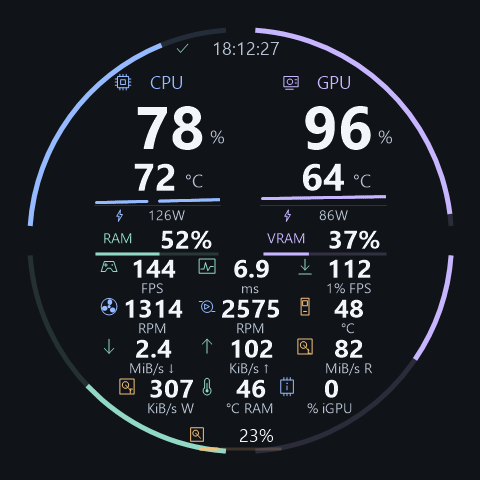
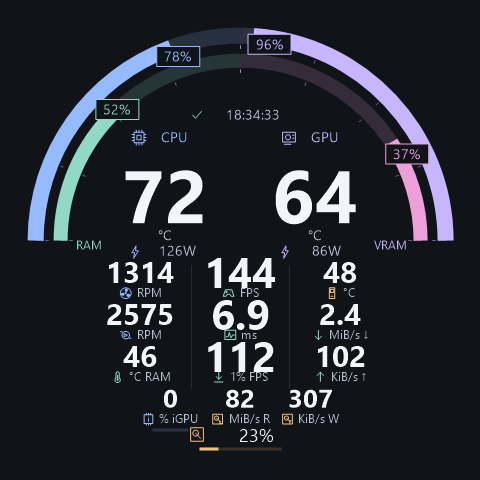
feat(display): Group upper gauges around larger temperatures
- Pair CPU/RAM and GPU/VRAM in thick upper quarters ending at top 100%.
- Add following percentage labels with collision avoidance and 74px temperatures.
- Group cooling, frame performance and IO below with configurable metric slots.
- Verify all integer percentage pairs, raster limits and existing output behavior.

---

feat(display): 用上半区双环与大温度重排圆屏

- 左侧合并CPU/RAM、右侧合并GPU/VRAM粗环，统一顶端为100%。
- 加入随动百分比避让，将温度数字增大至74px。
- 下半区按散热、帧表现与IO分组，保留可配置指标槽。
- 验证全部整数占比对、圆形栅格边界及既有输出行为。

diff --git a/DisplayRenderer.cs b/DisplayRenderer.cs
@@ -11,13 +11,13 @@ internal sealed class DisplayRenderer : IDisposable
     public Bitmap Canvas { get; } = new(480, 480, PixelFormat.Format32bppArgb);
     private readonly Graphics graphics;
     private readonly Font label = new("Segoe UI", 24, FontStyle.Bold, GraphicsUnit.Pixel);
-    private readonly Font load = new("Segoe UI", 60, FontStyle.Bold, GraphicsUnit.Pixel);
-    private readonly Font temperature = new("Segoe UI", 38, FontStyle.Bold, GraphicsUnit.Pixel);
+    private readonly Font focus = new("Segoe UI", 42, FontStyle.Bold, GraphicsUnit.Pixel);
+    private readonly Font temperature = new("Segoe UI", 74, FontStyle.Bold, GraphicsUnit.Pixel);
     private readonly Font small = new("Microsoft YaHei UI", 20, FontStyle.Regular, GraphicsUnit.Pixel);
     private readonly Font foot = new("Segoe UI", 18, FontStyle.Regular, GraphicsUnit.Pixel);
     private readonly Font memory = new("Segoe UI", 26, FontStyle.Bold, GraphicsUnit.Pixel);
-    private readonly Font ratio = new("Segoe UI", 18, FontStyle.Regular, GraphicsUnit.Pixel);
-    private readonly Font powerValue = new("Segoe UI", 20, FontStyle.Bold, GraphicsUnit.Pixel);
+    private readonly Font metric = new("Segoe UI", 30, FontStyle.Bold, GraphicsUnit.Pixel);
+    private readonly Font unit = new("Segoe UI", 12, FontStyle.Regular, GraphicsUnit.Pixel);
     private readonly Font tiny = new("Segoe UI", 14, FontStyle.Regular, GraphicsUnit.Pixel);
     private readonly SolidBrush background = new(ColorTranslator.FromHtml("#101318"));
     private readonly SolidBrush primary = new(ColorTranslator.FromHtml("#F2F5F9"));
@@ -26,7 +26,6 @@ internal sealed class DisplayRenderer : IDisposable
     private readonly SolidBrush gpu = new(ColorTranslator.FromHtml("#C7B6FF"));
     private readonly SolidBrush warning = new(ColorTranslator.FromHtml("#F4C17A"));
     private readonly StringFormat centered = new(StringFormat.GenericTypographic) { Alignment = StringAlignment.Center, LineAlignment = StringAlignment.Center, FormatFlags = StringFormatFlags.NoWrap | StringFormatFlags.NoClip };
-    private readonly StringFormat right = new(StringFormat.GenericTypographic) { Alignment = StringAlignment.Far, LineAlignment = StringAlignment.Center, FormatFlags = StringFormatFlags.NoWrap | StringFormatFlags.NoClip };
     public static Rectangle[] DynamicRegions { get; } = Enumerable.Range(0, 6).Select(i => new Rectangle(24, 24 + i * 72, 432, 72)).ToArray();
 
     public DisplayRenderer()
@@ -46,26 +45,30 @@ internal sealed class DisplayRenderer : IDisposable
         var normal = summary == "正常更新";
         var cpuUsage = metrics.Fresh(MetricId.CpuUsage, interval, now); var gpuUsage = metrics.Fresh(MetricId.GpuUsage, interval, now);
         var ram = metrics.FreshMemoryPercent(interval, now);
-        if (config.Layout.Rings)
+        Gauges(true, cpuUsage, ram, cpu.Color, Ui.Accent, config.Layout.Rings);
+        Gauges(false, gpuUsage, extra.VramPercent, gpu.Color, Color.FromArgb(237, 159, 217), config.Layout.Rings);
+        MetricGlyphs.Draw(graphics, frozenAt.HasValue ? MetricGlyph.Pause : normal ? MetricGlyph.Check : MetricGlyph.Warning, new(190, 107, 13, 15), normal ? Ui.Accent : warning.Color);
+        Text(stamp, tiny, normal ? muted : warning, new(208, 101, 89, 26));
+        Row("CPU", 165, metrics.Fresh(MetricId.CpuTemperature, interval, now), extra.CpuPower, cpu);
+        Row("GPU", 315, metrics.Fresh(MetricId.GpuTemperature, interval, now), extra.GpuPower, gpu);
+        using var ramColor = new SolidBrush(Ui.Accent);
+        Text("RAM", unit, ramColor, new(63, 235, 52, 19));
+        Text("VRAM", unit, gpu, new(365, 235, 52, 19));
+        using (var separator = new Pen(Color.FromArgb(36, 182, 193, 208), 1))
         {
-            Arc(184, cpuUsage, cpu.Color); Arc(274, gpuUsage, gpu.Color);
-            Arc(4, extra.VramPercent, gpu.Color); Arc(94, ram, Ui.Accent);
+            graphics.DrawLine(separator, 191, 265, 191, 388); graphics.DrawLine(separator, 289, 265, 289, 388);
         }
-        MetricGlyphs.Draw(graphics, frozenAt.HasValue ? MetricGlyph.Pause : normal ? MetricGlyph.Check : MetricGlyph.Warning, new(174, 39, 16, 18), normal ? Ui.Accent : warning.Color);
-        Text(stamp, foot, normal ? muted : warning, new(192, 32, 108, 30));
-        Row("CPU", 156, cpuUsage, metrics.Fresh(MetricId.CpuTemperature, interval, now), extra.CpuPower, cpu);
-        Row("GPU", 324, gpuUsage, metrics.Fresh(MetricId.GpuTemperature, interval, now), extra.GpuPower, gpu);
-        DrawTrend(graphics, new(94, 195, 126, 10), metrics.History, p => p.CpuUsage, cpu.Color, now, interval);
-        DrawTrend(graphics, new(260, 195, 126, 10), metrics.History, p => p.GpuUsage, gpu.Color, now, interval);
-        MemoryRow("RAM", 156, ram, metrics.Fresh(MetricId.MemoryUsed, interval, now), metrics.Fresh(MetricId.MemoryTotal, interval, now), Ui.Accent);
-        MemoryRow("VRAM", 324, extra.VramPercent, extra.VramUsed, extra.VramTotal, gpu.Color);
         for (var i = 0; i < 12; i++)
         {
             var item = PanelMetrics.Get(config.Layout.Slots[i], metrics, config, now, extra);
-            var x = i >= 9 ? 160 + i % 3 * 80 : 142 + i % 3 * 98; var y = 268 + i / 3 * 40;
-            MetricGlyphs.Draw(graphics, item.Glyph, new(x - 43, y - 12, 19, 20), item.Color);
-            Text(item.Digits, memory, primary, new(x - 24, y - 20, 70, 36));
-            Text(item.Suffix, tiny, muted, new(x - 29, y + 9, 78, 21));
+            var x = i >= 9 ? 170 + i % 3 * 70 : 140 + i % 3 * 100; var y = 274 + i / 3 * 42;
+            var center = i % 3 == 1 && i < 9;
+            Text(item.Digits, center && item.Digits.Length <= 3 ? focus : i >= 9 ? memory : metric, primary, new(x - 42, y - 28, 84, 48));
+            var suffixWidth = graphics.MeasureString(item.Suffix, unit, int.MaxValue, centered).Width;
+            var start = x - (suffixWidth + 18) / 2;
+            MetricGlyphs.Draw(graphics, item.Glyph, new(start, y + 12, 13, 13), item.Color);
+            graphics.DrawString(item.Suffix, unit, muted, new PointF(start + 18 + suffixWidth / 2, y + 18), centered);
+            if (item.Unit == "% iGPU" || item.Unit == "%") MetricGlyphs.Bar(graphics, new(x - 18, y + 28, 36, 3), item.Value, item.Color);
         }
         var busy = PanelMetrics.Get("disk-busy", metrics, config, now, extra);
         MetricGlyphs.Draw(graphics, MetricGlyph.Disk, new(188, 425, 17, 18), busy.Color);
@@ -73,33 +76,36 @@ internal sealed class DisplayRenderer : IDisposable
         MetricGlyphs.Bar(graphics, new(199, 447, 82, 3), busy.Value, busy.Color);
     }
     public void DrawDynamic(Metrics metrics) => Draw(metrics);
-    private void Arc(float start, double? value, Color color)
+    private void Gauges(bool left, double? outer, double? inner, Color outerColor, Color innerColor, bool bands)
     {
-        using var track = new Pen(Color.FromArgb(38, color), 5); using var fill = new Pen(color, 5);
-        graphics.DrawArc(track, 29, 29, 422, 422, start, 82);
-        if (value > 0) graphics.DrawArc(fill, 29, 29, 422, 422, start, (float)Math.Clamp(value.Value / 100, 0, 1) * 82);
+        if (!bands)
+        {
+            using var brush = new SolidBrush(outerColor);
+            Text((left ? "CPU " : "GPU ") + Format(outer) + "%  " + (left ? "RAM " : "VRAM ") + Format(inner) + "%", unit, brush, new(left ? 100 : 240, 77, 140, 24));
+            return;
+        }
+        UpperGauge.Draw(graphics, left, false, outer, outerColor); UpperGauge.Draw(graphics, left, true, inner, innerColor);
+        var first = UpperGauge.Label(left, false, outer); var second = UpperGauge.Label(left, true, inner, first.Bounds);
+        GaugeNumber(first, outer, outerColor); GaugeNumber(second, inner, innerColor);
     }
-    private void Row(string name, int x, double? usage, double? heat, double? power, SolidBrush color)
+    private void GaugeNumber(GaugeLabel placement, double? value, Color color)
     {
-        MetricGlyphs.Draw(graphics, name == "CPU" ? MetricGlyph.Cpu : MetricGlyph.Gpu, new(x - 43, 72, 19, 19), color.Color);
-        Text(name, foot, color, new(x - 20, 67, 60, 28));
-        Number(usage, load, new(x - 64, 88, 112, 72));
-        Text("%", foot, muted, new(x + 49, 122, 24, 27));
-        Number(heat, temperature, new(x - 60, 152, 81, 46));
-        Text("°C", foot, muted, new(x + 22, 166, 32, 27));
-        MetricGlyphs.Draw(graphics, MetricGlyph.Bolt, new(x - 42, 208, 10, 14), color.Color);
-        Text(Format(power) + "W", tiny, muted, new(x - 29, 201, 77, 27));
+        var b = placement.Bounds;
+        using var leader = new Pen(color, 1); using var brush = new SolidBrush(color);
+        graphics.DrawLine(leader, placement.Anchor, new(b.X + b.Width / 2, b.Y + b.Height / 2));
+        graphics.FillRectangle(background, b); graphics.DrawRectangle(leader, b.X, b.Y, b.Width, b.Height);
+        graphics.DrawString(Format(value) + "%", tiny, brush, b, centered);
     }
-    private void MemoryRow(string name, int x, double? percent, double? used, double? total, Color color)
+    private void Row(string name, int x, double? heat, double? power, SolidBrush color)
     {
-        using var brush = new SolidBrush(color);
-        Text(name, tiny, brush, new(x - 63, 225, 50, 25));
-        Text(Format(percent) + "%", memory, primary, new(x - 10, 220, 80, 34));
-        MetricGlyphs.Bar(graphics, new(x - 61, 252, 123, 3), percent, color);
-        // Exact used/total values remain available on the desktop hardware page.
+        MetricGlyphs.Draw(graphics, name == "CPU" ? MetricGlyph.Cpu : MetricGlyph.Gpu, new(x - 35, 128, 17, 18), color.Color);
+        Text(name, tiny, color, new(x - 12, 123, 43, 27));
+        Text(Format(heat), temperature, primary, new(x - 68, 147, 136, 91));
+        Text("°C", tiny, muted, new(x - 14, 224, 28, 21));
+        MetricGlyphs.Draw(graphics, MetricGlyph.Bolt, new(x - 36, 244, 11, 15), color.Color);
+        Text(Format(power) + "W", tiny, muted, new(x - 21, 238, 65, 24));
     }
-    private void Number(double? number, Font font, Rectangle rectangle) => graphics.DrawString(Format(number), font, primary, rectangle, right);
-    private void Text(string text, Font font, Brush brush, Rectangle rectangle) => graphics.DrawString(text, font, brush, rectangle, centered);
+    private void Text(string text, Font font, Brush brush, Rectangle rectangle) => graphics.DrawString(text, font, brush, new PointF(rectangle.X + rectangle.Width / 2f, rectangle.Y + rectangle.Height / 2f), centered);
     internal static string Format(double? value, string format = "0") => value?.ToString(format) ?? "—";
     internal static void DrawTrend(Graphics g, RectangleF bounds, HistoryPoint[] history, Func<HistoryPoint, double?> select,
         Color color, long now, int interval, double maximum = 100)
@@ -153,7 +159,7 @@ internal sealed class DisplayRenderer : IDisposable
     }
     public void Dispose()
     {
-        graphics.Dispose(); Canvas.Dispose(); label.Dispose(); load.Dispose(); temperature.Dispose(); small.Dispose(); foot.Dispose(); memory.Dispose(); ratio.Dispose(); powerValue.Dispose(); tiny.Dispose();
-        background.Dispose(); primary.Dispose(); muted.Dispose(); cpu.Dispose(); gpu.Dispose(); warning.Dispose(); centered.Dispose(); right.Dispose();
+        graphics.Dispose(); Canvas.Dispose(); label.Dispose(); focus.Dispose(); temperature.Dispose(); small.Dispose(); foot.Dispose(); memory.Dispose(); metric.Dispose(); unit.Dispose(); tiny.Dispose();
+        background.Dispose(); primary.Dispose(); muted.Dispose(); cpu.Dispose(); gpu.Dispose(); warning.Dispose(); centered.Dispose();
     }
 }

diff --git a/Verification.cs b/Verification.cs
@@ -69,6 +69,7 @@ internal static class Verification
             Check(interrupted.Update(hot, config, tick + 31 * Stopwatch.Frequency) is null, "Sampling gap interrupts sustained conditions");
             VerifyDetails(directory, Check);
             VerifyExtended(Check);
+            VerifyGauges(Check);
             RenderRasters(directory, Check);
             if (renderWindows) RenderWindows(directory, Check);
             VerifyWorker(Check);
@@ -109,6 +110,18 @@ internal static class Verification
             renderer.Draw(RichFixture(Fixture(100, 100), true), configuration: config);
             renderer.Canvas.Save(Path.Combine(directory, "layout-" + preset + ".png")); CheckSafety(renderer.Canvas, preset + " extreme preset", check);
         }
+        foreach (var percent in new[] { 0, 1, 25, 50, 75, 99, 100 })
+        {
+            var raster = RichFixture(Fixture(percent, 100, 47.7 * (100 - percent) / 100));
+            var readings = raster.Readings.ToDictionary(p => p.Key, p => p.Value);
+            readings[MetricId.GpuUsage] = readings[MetricId.GpuUsage] with { Value = percent };
+            readings[MetricId.GpuTemperature] = readings[MetricId.GpuTemperature] with { Value = 100 };
+            raster = raster with { Readings = readings, Details = raster.Details! with { Devices = raster.Details!.Devices.Select(d => d.Id != "nvidia" ? d : d with
+                { Metrics = d.Metrics.Select(m => m.Id != "nvidia/vram-used" ? m : m with { Reading = m.Reading with { Value = 16d * (100 - percent) / 100 } }).ToArray() }).ToArray() } };
+            renderer.Draw(raster); renderer.Canvas.Save(Path.Combine(directory, "gauges-" + percent + ".png")); CheckSafety(renderer.Canvas, "gauge endpoints " + percent, check);
+        }
+        renderer.Draw(RichFixture(), configuration: new Settings { Layout = new() { Rings = false } }.Capture());
+        CheckSafety(renderer.Canvas, "bands disabled", check);
     }
     private static void VerifyExtended(Action<bool, string> check)
     {
@@ -140,6 +153,25 @@ internal static class Verification
         check(SystemActivityReader.IsVirtual("Mihomo Meta Tunnel") && !SystemActivityReader.IsVirtual("Intel Ethernet Controller"), "Automatic network selection prefers physical adapters over recognized VPN interfaces");
         using var editor = new LayoutForm(new Settings(), rich.Details, rich, _ => { });
         check(!editor.Visible && editor.Controls.Count > 0, "Layout editor and real-data preview construct without showing a window");
+    }
+    private static void VerifyGauges(Action<bool, string> check)
+    {
+        check(UpperGauge.Point(205, UpperGauge.Angle(true, 100)).Y < 36 && UpperGauge.Point(205, UpperGauge.Angle(false, 100)).Y < 36,
+            "Both utilization quarters reach one hundred percent at the screen top");
+        check(UpperGauge.Point(205, UpperGauge.Angle(true, 0)).X == 35 && UpperGauge.Point(205, UpperGauge.Angle(false, 0)).X == 445,
+            "Left and right utilization quarters progress from opposite side baselines");
+        var collision = false; var outside = false; var coversTemperature = false;
+        foreach (var left in new[] { true, false }) for (var outer = 0; outer <= 100; outer++) for (var inner = 0; inner <= 100; inner++)
+        {
+            var a = UpperGauge.Label(left, false, outer); var b = UpperGauge.Label(left, true, inner, a.Bounds);
+            collision |= a.Bounds.IntersectsWith(b.Bounds);
+            var main = left ? new RectangleF(99, 126, 133, 118) : new RectangleF(248, 126, 133, 118);
+            coversTemperature |= a.Bounds.IntersectsWith(main) || b.Bounds.IntersectsWith(main);
+            foreach (var box in new[] { a.Bounds, b.Bounds }) foreach (var p in new[] { new PointF(box.Left, box.Top), new(box.Right, box.Top), new(box.Left, box.Bottom), new(box.Right, box.Bottom) })
+                outside |= (p.X - 240) * (p.X - 240) + (p.Y - 240) * (p.Y - 240) > 216 * 216;
+        }
+        check(!collision && !coversTemperature, "All integer percentage pairs keep following labels separate from each other and large temperatures");
+        check(!outside, "Following percentage labels remain inside the circular safety area at every integer percentage");
     }
     private static void VerifyDetails(string directory, Action<bool, string> check)
     {

diff --git a/UpperGauge.cs b/UpperGauge.cs
@@ -1,0 +1,62 @@
+namespace SamaLite;
+
+internal readonly record struct GaugeLabel(PointF Anchor, RectangleF Bounds);
+
+internal static class UpperGauge
+{
+    internal const float OuterRadius = 205, InnerRadius = 180, OuterWidth = 16, InnerWidth = 14;
+    // Both quarters finish at twelve o'clock; right progresses counterclockwise.
+    internal static float Angle(bool left, double percent) => left ? 180 + (float)Math.Clamp(percent, 0, 100) * .9f : -(float)Math.Clamp(percent, 0, 100) * .9f;
+    internal static PointF Point(float radius, float angle)
+    {
+        var radians = angle * MathF.PI / 180;
+        return new(240 + radius * MathF.Cos(radians), 240 + radius * MathF.Sin(radians));
+    }
+    internal static GaugeLabel Label(bool left, bool inner, double? percent, RectangleF? previous = null)
+    {
+        var angle = Angle(left, percent ?? 0); var radius = inner ? InnerRadius : OuterRadius;
+        var anchor = Point(radius, angle); var point = anchor;
+        const float width = 43, height = 20;
+        // Keep horizontal labels within the safety circle, even at 0 and 100%.
+        var radians = angle * MathF.PI / 180; var c = MathF.Abs(MathF.Cos(radians)); var s = MathF.Abs(MathF.Sin(radians));
+        var projection = c * width / 2 + s * height / 2;
+        var safeRadius = -projection + MathF.Sqrt(projection * projection + 213 * 213 - width * width / 4 - height * height / 4);
+        if (radius > safeRadius) point = Point(safeRadius, angle);
+        point.X = left ? Math.Min(point.X, 215) : Math.Max(point.X, 265);
+        var main = left ? new RectangleF(99, 126, 133, 118) : new RectangleF(248, 126, 133, 118);
+        // Search nearby horizontal positions: coincident percentages must not stack
+        // labels, and a capacity label must never cover the large temperature.
+        for (var step = 0; step <= 20; step++)
+        for (var dy = -step; dy <= step; dy++)
+        for (var dx = -step; dx <= step; dx++)
+        {
+            if (Math.Max(Math.Abs(dx), Math.Abs(dy)) != step) continue;
+            var x = point.X + (left ? dx : -dx) * 4;
+            var bounds = new RectangleF(x - width / 2, point.Y + dy * 4 - height / 2, width, height);
+            if (left ? bounds.Right > 237 : bounds.Left < 243) continue;
+            if (RectangleF.Inflate(main, 2, 2).IntersectsWith(bounds) || (previous is RectangleF outer && RectangleF.Inflate(outer, 3, 3).IntersectsWith(bounds))) continue;
+            var maxX = Math.Max(Math.Abs(bounds.Left - 240), Math.Abs(bounds.Right - 240));
+            var maxY = Math.Max(Math.Abs(bounds.Top - 240), Math.Abs(bounds.Bottom - 240));
+            if (maxX * maxX + maxY * maxY > 213 * 213) continue;
+            return new(anchor, bounds);
+        }
+        return new(anchor, new(left ? 56 : 381, inner ? 267 : 242, width, height));
+    }
+    public static void Draw(Graphics g, bool left, bool inner, double? percent, Color color)
+    {
+        var radius = inner ? InnerRadius : OuterRadius; var width = inner ? InnerWidth : OuterWidth;
+        var bounds = new RectangleF(240 - radius, 240 - radius, radius * 2, radius * 2);
+        var start = left ? 180 : 0; var direction = left ? 1 : -1;
+        using var track = new Pen(Color.FromArgb(44, color), width);
+        using var fill = new Pen(color, width);
+        g.DrawArc(track, bounds, start, direction * 90);
+        if (percent > 0) g.DrawArc(fill, bounds, start, direction * 90 * (float)Math.Clamp(percent.Value / 100, 0, 1));
+        using var tick = new Pen(Color.FromArgb(130, color), 1);
+        for (var value = 0; value <= 100; value += 25)
+        {
+            var angle = Angle(left, value);
+            var a = Point(radius - width / 2 - 2, angle); var b = Point(radius - width / 2 - 5, angle);
+            g.DrawLine(tick, a, b);
+        }
+    }
+}

diff --git a/PanelLayout.cs b/PanelLayout.cs
@@ -3,7 +3,7 @@ namespace SamaLite;
 internal sealed record PanelLayout
 {
     public string Preset { get; init; } = "dense";
-    public string[] Slots { get; init; } = ["fps", "frametime", "low", "fan", "pump", "nvme", "download", "upload", "disk-read", "disk-write", "dimm", "igpu"];
+    public string[] Slots { get; init; } = ["fan", "fps", "nvme", "pump", "frametime", "download", "dimm", "low", "upload", "igpu", "disk-read", "disk-write"];
     public bool Rings { get; init; } = true;
     public static readonly string[] Choices = ["fps", "frametime", "low", "fan", "pump", "nvme", "download", "upload", "disk-read", "disk-write", "disk-busy", "dimm", "igpu", "cpu-power", "gpu-power"];
     public PanelLayout Normalized() => this with { Preset = Preset is "dense" or "game" or "cooling" ? Preset : "dense",
@@ -11,8 +11,8 @@ internal sealed record PanelLayout
             ? Slots[i] : new PanelLayout().Slots[i]).ToArray() };
     public static PanelLayout For(string preset) => preset switch
     {
-        "game" => new() { Preset = preset, Slots = ["fps", "frametime", "low", "gpu-power", "cpu-power", "nvme", "download", "upload", "disk-read", "disk-write", "dimm", "igpu"] },
-        "cooling" => new() { Preset = preset, Slots = ["fan", "pump", "nvme", "dimm", "cpu-power", "gpu-power", "download", "upload", "disk-read", "disk-write", "fps", "frametime"] },
+        "game" => new() { Preset = preset, Slots = ["fan", "fps", "nvme", "pump", "frametime", "gpu-power", "dimm", "low", "download", "igpu", "disk-read", "upload"] },
+        "cooling" => new() { Preset = preset, Slots = ["fan", "pump", "nvme", "dimm", "cpu-power", "gpu-power", "igpu", "fps", "download", "disk-read", "frametime", "disk-write"] },
         _ => new()
     };
 }

diff --git a/LayoutForm.cs b/LayoutForm.cs
@@ -7,7 +7,7 @@ internal sealed class LayoutForm : Form
     private sealed record Option(string Id, string Name) { public override string ToString() => Name; }
     private readonly ComboBox[] slots = new ComboBox[12];
     private readonly ComboBox preset = Box(), fan = Box(), pump = Box(), nvme = Box(), network = Box();
-    private readonly CheckBox rings = new() { Text = "边缘占比条（左上CPU、右上GPU、右下VRAM、左下RAM）", AutoSize = true };
+    private readonly CheckBox rings = new() { Text = "上半区双环（左CPU/RAM、右GPU/VRAM，顶端100%）", AutoSize = true };
     private readonly CheckBox frames = new() { Text = "按需后台采集应用 Present 帧事件", AutoSize = true };
     private readonly TextBox process = new() { Width = 280, BackColor = Ui.Raised, ForeColor = Ui.Text };
     private readonly PictureBox preview = new() { Size = new(300, 300), SizeMode = PictureBoxSizeMode.Zoom };

diff --git a/README.md b/README.md
@@ -2,7 +2,7 @@
 
 轻量的 Windows C# 托盘监控程序，为兼容的 SAMA / Turing 圆形 USB 屏幕显示 CPU、GPU 温度与占用、内存占比和采样时刻。默认每秒刷新一次，支持局部画面更新。
 
-当前版本：0.6.0。免安装目录包，设置和日志随程序携带，支持登录后静默提权启动。圆屏以大数字、彩色图标、容量条和边缘占比条显示CPU/GPU、RAM/VRAM、功耗，以及12个可配置指标槽：FPS、帧时间、1% Low、CPU风扇/水泵转速、NVMe温度、上下行网速、磁盘吞吐、DIMM温度、核显占用；底部另有磁盘活动百分比。未实现调速、ARGB或固件升级。
+当前版本：0.6.1。免安装目录包，设置和日志随程序携带，支持登录后静默提权启动。圆屏上半区使用CPU/RAM、GPU/VRAM双层粗环；中央温度大数字，下半区按散热、帧表现、网络/存储分组，保留12个可配置指标槽。未实现调速、ARGB或固件升级。
 
 ## 使用
 
@@ -14,9 +14,11 @@
 
 ## 工作站概览与状态
 
-圆屏固定480×480像素，CPU/GPU左右排列，负载60px、温度38px，其余指标26px，数字与单位分别定位。蓝色对应CPU/散热，紫色GPU，绿色内存/网络/帧，橙色磁盘。边缘占比条按左上CPU、右上GPU、右下VRAM、左下RAM排列，可关闭。条形刻度0–100%，CPU/GPU趋势横轴120秒、纵轴0–100%，缺失断线。正常只保留勾形与真实基础采样时刻；暂停双竖线与冻结时刻，异常三角形，失效/过期的指标改为—。显示布局固定，不自动轮播。
+圆屏固定480×480像素。上半区左侧外环CPU、内环RAM，右侧外环GPU、内环VRAM；外环16px、内环14px，均从左右水平侧的0%向顶端12点方向的100%增长。CPU蓝、RAM绿、GPU紫、VRAM粉；14px百分比靠近进度末端随动，拥挤时用短引线避让，不互相叠字或遮住温度。可关闭环带，改为固定紧凑百分比行。
 
-主窗口的“屏幕布局与数据源…”提供硬件总览、游戏、散热3种预设；12槽可逐一选择15种指标，按从左到右、从上到下排列。可指定CPU风扇/水泵接口、NVMe、网卡和游戏进程名，保存在data/settings.json；预览使用最近实机数据。通用Fan #不会自动猜用途；只有明确命名CPU Fan及Pump/Pump Fan才自动匹配，仍应按主板实际接线确认。CPU/GPU、RAM/VRAM与底部磁盘活动保持固定。正常、100%/100°C、125°C DIMM、150°C NVMe、60000 RPM/ms、大吞吐、零值、缺失与3种预设均检查在r216安全圆内；大于等于10000的扩展读数用k缩写，小于1 MiB/s的非零吞吐切为KiB/s，低于10的吞吐读数保留1位小数。
+CPU/GPU温度居中左右排列，从38px放大为74px，功耗就近放在下方。默认左下为风扇/水泵/DIMM温度，中央为FPS/帧时间/1% Low，右下为NVMe/上下行；最底部补核显与磁盘读写，保留磁盘活动条。下半区使用直线分隔、30px普通数字和最高42px中央数字，图标/单位位于数字下方；不使用第二组大环，便于区别于上半区。核显与磁盘活动用紧凑直条。负载趋势仍在桌面保留120秒，不再占用圆屏主区。正常状态保留勾形与真实基础采样时刻；暂停双竖线与冻结时刻，异常三角形，失效/过期改为—。不自动轮播。
+
+主窗口的“屏幕布局与数据源…”提供硬件总览、游戏、散热3种预设；12槽可逐一选择15种指标，按从左到右、从上到下排列，中央前三行有更大的数字。已保存的自定义槽位保持原顺序；未保存布局时使用新的分组默认值。可指定CPU风扇/水泵接口、NVMe、网卡和游戏进程名，保存在data/settings.json；预览使用最近实机数据。通用Fan #不会自动猜用途；只有明确命名CPU Fan及Pump/Pump Fan才自动匹配，仍应按主板实际接线确认。CPU/GPU温度、上半区占比和底部磁盘活动保持固定。正常、100%/100°C、125°C DIMM、150°C NVMe、60000 RPM/ms、大吞吐、零值、缺失与3种预设均检查在r216安全圆内；大于等于10000的扩展读数用k缩写，小于1 MiB/s的非零吞吐切为KiB/s，低于10的吞吐读数保留1位小数。
 
 ![离线布局样本：图中数值均为测试数据](docs/images/circular-layout-sample.png)
 
@@ -108,7 +110,7 @@ API依据：[LHM固定版本的DIMM实现](https://github.com/LibreHardwareMonit
 
 `./Package.ps1`在artifacts/生成带版本号的ZIP、干净的SamaLite/目录和逐文件SHA256清单；不打包现有设置、日志、状态或采样记录。使用目录旁的DLL，不运行自解压启动器。
 
-`./Verify.ps1`在后台运行离线检查，不显示窗口、不打开传感器或串口、不写用户设置。覆盖逐项过期、内存分母、历史边界、关注回滞、圆形安全区、局部刷新覆盖、暂停与重连、DIMM失败时间不变、核显零值/部分缺失、GiB转换、NVML结构布局、紧凑概览/详情离屏布局、窄数字槽完整显示100、真实逐帧1% Low算法、120000帧上限、CSV解析、NVMe响应边界、布局归一化、转速映射与布局编辑器离屏构造。当前63项检查通过。
+`./Verify.ps1`在后台运行离线检查，不显示窗口、不打开传感器或串口、不写用户设置。覆盖逐项过期、内存分母、历史边界、关注回滞、圆形安全区、局部刷新覆盖、暂停与重连、DIMM失败时间不变、核显零值/部分缺失、GiB转换、NVML结构布局、紧凑概览/详情离屏布局、窄数字槽完整显示100、真实逐帧1% Low算法、120000帧上限、CSV解析、NVMe响应边界、布局归一化、转速映射与布局编辑器离屏构造。当前75项检查通过，包含全部整数占比对的标签避让、两侧顶端100%、七组环带极值栅格与关闭环带的安全区检查。
 
 发布目录的`SamaLite.exe --verify-frames <目录>`是另行明确调用的管理员诊断：创建永不显示的原生DXGI窗口，约16秒受控Present，采集同PID帧并正常关闭会话，将结果写到指定目录；不连接串口或更改用户配置。不代表游戏性能基准。
 

diff --git a/docs/releases/v0.6.1.md b/docs/releases/v0.6.1.md
@@ -1,0 +1,12 @@
+# SamaLite 0.6.1
+
+圆屏改为上半区双层粗环与中央大温度：左侧CPU/RAM、右侧GPU/VRAM，统一向顶端100%增长。外环16px、内环14px，百分比随进度末端移动，拥挤时引线避让。
+
+- CPU/GPU温度从38px增大至74px；不再以大数字重复展示四项占比。
+- 下半区采用直线分组：散热在左、帧表现居中、网络和存储在右；普通数字30px，中央最高42px，图标和单位放在下方。
+- 保留12个自定义槽位及3种预设；已有自定义顺序、刷新间隔、亮度、方向、自启和采集设置保持。
+- 关闭环带时提供固定百分比行；缺失和过期显示—，有效零值保留。
+
+75项离线检查通过，包括全部0–100整数占比对的标签避让、同为100%时分离、七组极值栅格、r216安全圆、局部刷新覆盖和暂停/重连。未打开验证窗口；实际斜视阅读仍需用户观察。采集方式与0.6.0相同。
+
+仍为复用.NET 10桌面运行时和现有PawnIO的免安装目录包，不进行单文件临时解包。设置保存在EXE旁data/；PresentMon按需后台运行。
